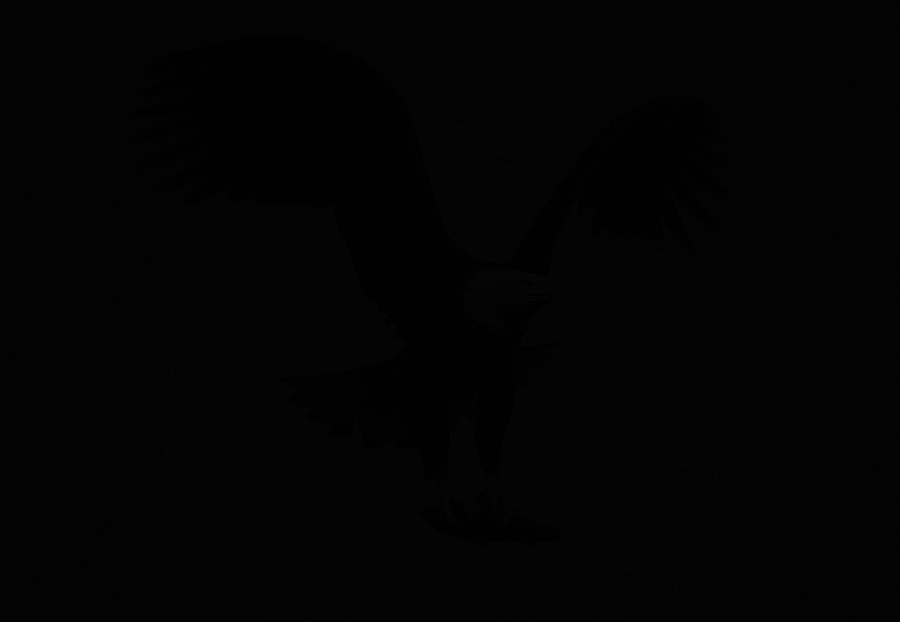
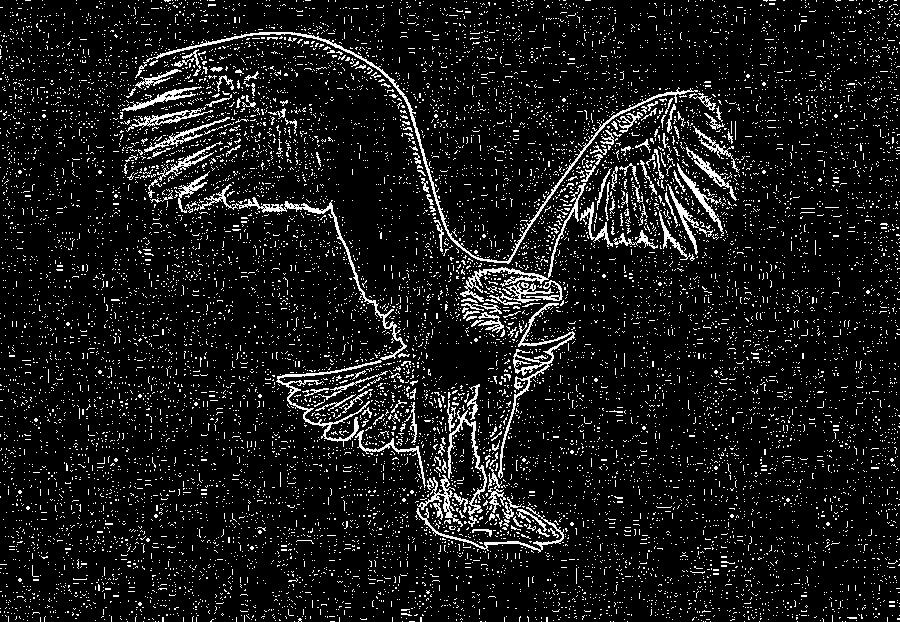
made changes to edge detection difference of gaussian

diff --git a/problem2/edge_detection_difference_of_gaussians.py b/problem2/edge_detection_difference_of_gaussians.py
@@ -17,20 +17,23 @@ def difference_of_gaussian_edge_detection(
     - gamma (float): Factor to multiply second gaussian by. Default is 0.98.
 
     Returns:
-    - difference_of_gaussian_image (np.ndarray): Difference of Gaussian image.
+    - difference_of_gaussian_kernel (np.ndarray): Difference of Gaussian kernel.
     '''
     assert _k >= 1.0
 
-    kernel_size = (3, 3)
+    # image_1 = cv2.getGaussianKernel(5, sigma)
 
-    image_1 = cv2.GaussianBlur(image, ksize = kernel_size, sigmaX = sigma, sigmaY = sigma)
+    # sigma_2 = _k * sigma
+    # image_2 = gamma * cv2.getGaussianKernel(5, sigma_2)
 
-    sigma_2 = -_k * sigma
-    image_2 = gamma * cv2.GaussianBlur(image, ksize = kernel_size, sigmaX = sigma_2, sigmaY = sigma_2)
+    # difference_of_gaussian_kernel = image_1 - image_2
 
-    difference_of_gaussian_image = image_1 - image_2
+    low_sigma = cv2.GaussianBlur(image, (3, 3), 0)
+    high_sigma = cv2.GaussianBlur(image, (5, 5), 1)
 
-    return difference_of_gaussian_image
+    difference_of_gaussian_kernel = low_sigma - high_sigma
+
+    return difference_of_gaussian_kernel
 
 def display_output_image(
     image: np.ndarray,
@@ -56,13 +59,15 @@ def display_output_image(
     - _t (np.ndarray): The output image after applying the
     edge detection and non-linear transformation.
     '''
-    difference_of_gaussian_image = difference_of_gaussian_edge_detection(image, sigma, _k, gamma)
+    difference_of_gaussian_kernel = difference_of_gaussian_edge_detection(image, sigma, _k, gamma)
 
-    _u = np.multiply(difference_of_gaussian_image, image)
+    print(difference_of_gaussian_kernel)
 
-    condition = (_u >= epsilon)
+    # _u = cv2.filter2D(src = image, ddepth = -1, kernel = difference_of_gaussian_kernel)
 
-    _t = np.ones(_u.shape)
-    _t[~condition] = 1 + np.tanh(phi * (_u[~condition] * epsilon))
+    # condition = (_u >= epsilon)
 
-    return _t
+    # _t = np.ones(_u.shape)
+    # _t[~condition] = 1 + np.tanh(phi * (_u[~condition] - epsilon))
+
+    return difference_of_gaussian_kernel * 255

diff --git a/problem2/problem2.py b/problem2/problem2.py
@@ -10,7 +10,7 @@ from convert_to_grayscale import convert2grayscale
 from edge_detection_sobel import sobel_edge_detection
 from edge_detection_prewitt import prewitt_edge_detection
 from edge_detection_laplacian import laplacian_of_gaussian_edge_detection
-from edge_detection_difference_of_gaussians import difference_of_gaussian_edge_detection
+from edge_detection_difference_of_gaussians import display_output_image
 
 if __name__ == '__main__':
     file_path = os.path.abspath(__file__)
